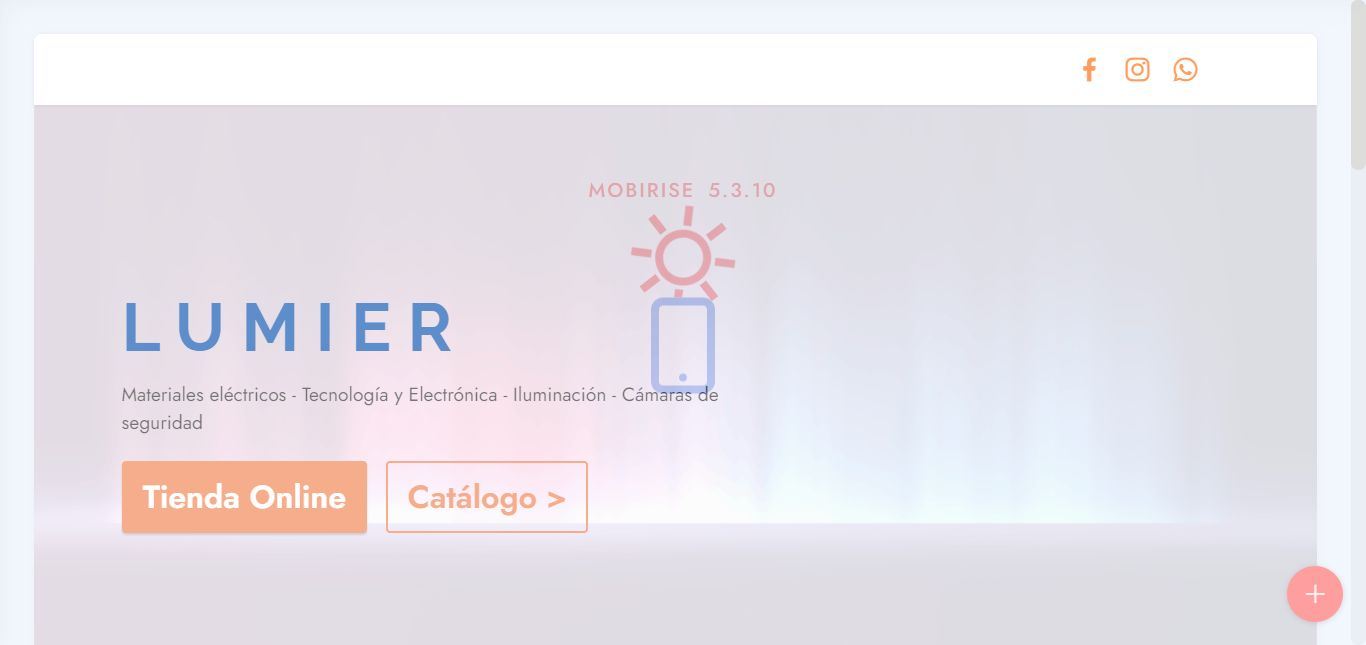
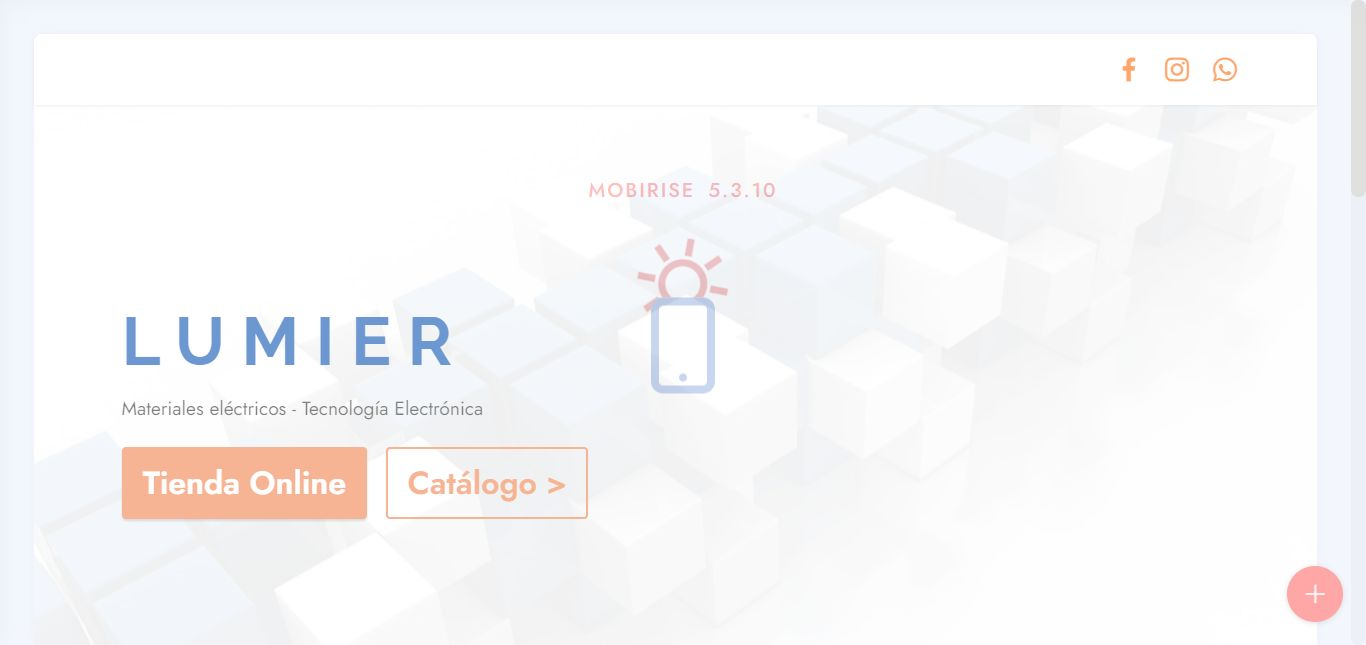
.

diff --git a/catalog.html b/catalog.html
@@ -49,10 +49,10 @@
   <section class="menu menu3 cid-swS4vklWfl" once="menu" id="menu3-i">
     
     <nav class="navbar navbar-dropdown navbar-fixed-top navbar-expand-lg">
-        <div class="container">
+        <div class="container-fluid">
             <div class="navbar-brand">
                 
-                <span class="navbar-caption-wrap"><a class="navbar-caption text-secondary display-7" href="index.html">Casa Lumier</a></span>
+                <span class="navbar-caption-wrap"><a class="navbar-caption text-secondary display-7" href="index.html">L U M I E R</a></span>
             </div>
             <button class="navbar-toggler" type="button" data-toggle="collapse" data-target="#navbarSupportedContent" aria-controls="navbarNavAltMarkup" aria-expanded="false" aria-label="Toggle navigation">
                 <div class="hamburger">
@@ -85,7 +85,7 @@
 <section class="content2 cid-sy0Ri5KBQg" id="content2-r">
     
     
-    <div class="container-fluid">
+    <div class="container">
         <div class="mbr-section-head">
             <h4 class="mbr-section-title mbr-fonts-style align-center mb-0 display-2"><strong><br></strong><br><strong>Iluminación</strong></h4>
             <h5 class="mbr-section-subtitle mbr-fonts-style align-center mb-0 mt-2 display-5">Selección de productos</h5>
@@ -124,7 +124,7 @@
                         <img src="assets/images/lu-colgante-ferrolux-c-1007n-t-696x696.jpg" alt="" title="">
                     </div>
                     <div class="item-content">
-                        <h5 class="item-title mbr-fonts-style display-4">COLGANTE TRAPECIO NEGRO 16X25CM</h5>
+                        <h5 class="item-title mbr-fonts-style display-7">COLGANTE TRAPECIO NEGRO 16X25CM</h5>
                         <h6 class="item-subtitle mbr-fonts-style mt-1 display-7"><strong>Marca: </strong>Ferrolux</h6>
                         <p class="mbr-text mbr-fonts-style mt-3 display-7"><strong>Código</strong>:&nbsp;C-1008N/T</p>
                     </div>
@@ -242,7 +242,7 @@
             
         </div>
     </div>
-</section><section style="background-color: #fff; font-family: -apple-system, BlinkMacSystemFont, 'Segoe UI', 'Roboto', 'Helvetica Neue', Arial, sans-serif; color:#aaa; font-size:12px; padding: 0; align-items: center; display: flex;"><a href="https://mobirise.site/t" style="flex: 1 1; height: 3rem; padding-left: 1rem;"></a><p style="flex: 0 0 auto; margin:0; padding-right:1rem;"><a href="https://mobirise.site/i" style="color:#aaa;">Created with Mobirise</a> website creator</p></section><script src="assets/web/assets/jquery/jquery.min.js"></script>  <script src="assets/popper/popper.min.js"></script>  <script src="assets/tether/tether.min.js"></script>  <script src="assets/bootstrap/js/bootstrap.min.js"></script>  <script src="assets/smoothscroll/smooth-scroll.js"></script>  <script src="assets/viewportchecker/jquery.viewportchecker.js"></script>  <script src="assets/dropdown/js/nav-dropdown.js"></script>  <script src="assets/dropdown/js/navbar-dropdown.js"></script>  <script src="assets/touchswipe/jquery.touch-swipe.min.js"></script>  <script src="assets/parallax/jarallax.min.js"></script>  <script src="assets/theme/js/script.js"></script>  
+</section><section style="background-color: #fff; font-family: -apple-system, BlinkMacSystemFont, 'Segoe UI', 'Roboto', 'Helvetica Neue', Arial, sans-serif; color:#aaa; font-size:12px; padding: 0; align-items: center; display: flex;"><a href="https://mobirise.site/m" style="flex: 1 1; height: 3rem; padding-left: 1rem;"></a><p style="flex: 0 0 auto; margin:0; padding-right:1rem;"><a href="https://mobirise.site/r" style="color:#aaa;">This site</a> was started with Mobirise template</p></section><script src="assets/web/assets/jquery/jquery.min.js"></script>  <script src="assets/popper/popper.min.js"></script>  <script src="assets/tether/tether.min.js"></script>  <script src="assets/bootstrap/js/bootstrap.min.js"></script>  <script src="assets/smoothscroll/smooth-scroll.js"></script>  <script src="assets/viewportchecker/jquery.viewportchecker.js"></script>  <script src="assets/dropdown/js/nav-dropdown.js"></script>  <script src="assets/dropdown/js/navbar-dropdown.js"></script>  <script src="assets/touchswipe/jquery.touch-swipe.min.js"></script>  <script src="assets/parallax/jarallax.min.js"></script>  <script src="assets/theme/js/script.js"></script>  
   
   
   <input name="animation" type="hidden">

diff --git a/index.html b/index.html
@@ -53,7 +53,7 @@
         <div class="container-fluid">
             <div class="navbar-brand">
                 
-                
+                <span class="navbar-caption-wrap"><a class="navbar-caption text-secondary display-7" href="index.html">L U M I E R</a></span>
             </div>
             <button class="navbar-toggler" type="button" data-toggle="collapse" data-target="#navbarSupportedContent" aria-controls="navbarNavAltMarkup" aria-expanded="false" aria-label="Toggle navigation">
                 <div class="hamburger">
@@ -96,7 +96,7 @@
                 
                 <p class="mbr-text mbr-fonts-style display-7">Materiales eléctricos - Tecnología Electrónica&nbsp;</p>
                 <div class="mbr-section-btn mt-3"><a class="btn btn-success display-4" href="http://www.casalumier.com.ar/shop">Tienda Online</a>
-                    <a class="btn btn-success-outline display-4" href="catalog.html#top">Catálogo &gt;</a></div>
+                    <a class="btn btn-success-outline display-4" href="catalog.html">Catálogo &gt;</a></div>
             </div>
         </div>
     </div>
@@ -188,7 +188,7 @@
                 </div>
             </div>
             <div class="map-wrapper col-12 col-md-6">
-                <div class="google-map"><iframe frameborder="0" style="border:0" src="https://www.google.com/maps/embed/v1/place?key=AIzaSyCNveGQ9bfpKFwWzQLLftrR9hNiHwdqQG8&amp;q=Calle 113 470, Guernica" allowfullscreen=""></iframe></div>
+                <div class="google-map"><iframe frameborder="0" style="border:0" src="https://www.google.com/maps/embed/v1/place?key=AIzaSyDk89J4FSunMF33ruMVWJaJht_Ro0kvoXs&amp;q=Calle 113 470, Guernica" allowfullscreen=""></iframe></div>
             </div>
         </div>
     </div>
@@ -265,7 +265,7 @@
             </div>
         </div>
     </div>
-</section><section style="background-color: #fff; font-family: -apple-system, BlinkMacSystemFont, 'Segoe UI', 'Roboto', 'Helvetica Neue', Arial, sans-serif; color:#aaa; font-size:12px; padding: 0; align-items: center; display: flex;"><a href="https://mobirise.site/f" style="flex: 1 1; height: 3rem; padding-left: 1rem;"></a><p style="flex: 0 0 auto; margin:0; padding-right:1rem;">Built with Mobirise <a href="https://mobirise.site/j" style="color:#aaa;">web page</a> maker</p></section><script src="assets/web/assets/jquery/jquery.min.js"></script>  <script src="assets/popper/popper.min.js"></script>  <script src="assets/tether/tether.min.js"></script>  <script src="assets/bootstrap/js/bootstrap.min.js"></script>  <script src="assets/smoothscroll/smooth-scroll.js"></script>  <script src="assets/viewportchecker/jquery.viewportchecker.js"></script>  <script src="assets/parallax/jarallax.min.js"></script>  <script src="assets/dropdown/js/nav-dropdown.js"></script>  <script src="assets/dropdown/js/navbar-dropdown.js"></script>  <script src="assets/touchswipe/jquery.touch-swipe.min.js"></script>  <script src="assets/theme/js/script.js"></script>  
+</section><section style="background-color: #fff; font-family: -apple-system, BlinkMacSystemFont, 'Segoe UI', 'Roboto', 'Helvetica Neue', Arial, sans-serif; color:#aaa; font-size:12px; padding: 0; align-items: center; display: flex;"><a href="https://mobirise.site/a" style="flex: 1 1; height: 3rem; padding-left: 1rem;"></a><p style="flex: 0 0 auto; margin:0; padding-right:1rem;"><a href="https://mobirise.site/i" style="color:#aaa;">Designed with Mobirise</a> web builder</p></section><script src="assets/web/assets/jquery/jquery.min.js"></script>  <script src="assets/popper/popper.min.js"></script>  <script src="assets/tether/tether.min.js"></script>  <script src="assets/bootstrap/js/bootstrap.min.js"></script>  <script src="assets/smoothscroll/smooth-scroll.js"></script>  <script src="assets/viewportchecker/jquery.viewportchecker.js"></script>  <script src="assets/parallax/jarallax.min.js"></script>  <script src="assets/dropdown/js/nav-dropdown.js"></script>  <script src="assets/dropdown/js/navbar-dropdown.js"></script>  <script src="assets/touchswipe/jquery.touch-swipe.min.js"></script>  <script src="assets/theme/js/script.js"></script>  
   
   
   <input name="animation" type="hidden">

diff --git a/envivo.html b/envivo.html
@@ -50,10 +50,10 @@
   <section class="menu menu3 cid-swS4vklWfl" once="menu" id="menu3-u">
     
     <nav class="navbar navbar-dropdown navbar-fixed-top navbar-expand-lg">
-        <div class="container">
+        <div class="container-fluid">
             <div class="navbar-brand">
                 
-                <span class="navbar-caption-wrap"><a class="navbar-caption text-secondary display-7" href="index.html">Casa Lumier</a></span>
+                <span class="navbar-caption-wrap"><a class="navbar-caption text-secondary display-7" href="index.html">L U M I E R</a></span>
             </div>
             <button class="navbar-toggler" type="button" data-toggle="collapse" data-target="#navbarSupportedContent" aria-controls="navbarNavAltMarkup" aria-expanded="false" aria-label="Toggle navigation">
                 <div class="hamburger">
@@ -289,7 +289,7 @@
             
         </div>
     </div>
-</section><section style="background-color: #fff; font-family: -apple-system, BlinkMacSystemFont, 'Segoe UI', 'Roboto', 'Helvetica Neue', Arial, sans-serif; color:#aaa; font-size:12px; padding: 0; align-items: center; display: flex;"><a href="https://mobirise.site/b" style="flex: 1 1; height: 3rem; padding-left: 1rem;"></a><p style="flex: 0 0 auto; margin:0; padding-right:1rem;">Mobirise free software - <a href="https://mobirise.site/n" style="color:#aaa;">Find out</a></p></section><script src="assets/web/assets/jquery/jquery.min.js"></script>  <script src="assets/popper/popper.min.js"></script>  <script src="assets/tether/tether.min.js"></script>  <script src="assets/bootstrap/js/bootstrap.min.js"></script>  <script src="assets/smoothscroll/smooth-scroll.js"></script>  <script src="assets/viewportchecker/jquery.viewportchecker.js"></script>  <script src="assets/dropdown/js/nav-dropdown.js"></script>  <script src="assets/dropdown/js/navbar-dropdown.js"></script>  <script src="assets/touchswipe/jquery.touch-swipe.min.js"></script>  <script src="assets/playervimeo/vimeo_player.js"></script>  <script src="assets/parallax/jarallax.min.js"></script>  <script src="assets/theme/js/script.js"></script>  
+</section><section style="background-color: #fff; font-family: -apple-system, BlinkMacSystemFont, 'Segoe UI', 'Roboto', 'Helvetica Neue', Arial, sans-serif; color:#aaa; font-size:12px; padding: 0; align-items: center; display: flex;"><a href="https://mobirise.site/u" style="flex: 1 1; height: 3rem; padding-left: 1rem;"></a><p style="flex: 0 0 auto; margin:0; padding-right:1rem;">How to make a free website - <a href="https://mobirise.site/x" style="color:#aaa;">More here</a></p></section><script src="assets/web/assets/jquery/jquery.min.js"></script>  <script src="assets/popper/popper.min.js"></script>  <script src="assets/tether/tether.min.js"></script>  <script src="assets/bootstrap/js/bootstrap.min.js"></script>  <script src="assets/smoothscroll/smooth-scroll.js"></script>  <script src="assets/viewportchecker/jquery.viewportchecker.js"></script>  <script src="assets/dropdown/js/nav-dropdown.js"></script>  <script src="assets/dropdown/js/navbar-dropdown.js"></script>  <script src="assets/touchswipe/jquery.touch-swipe.min.js"></script>  <script src="assets/playervimeo/vimeo_player.js"></script>  <script src="assets/parallax/jarallax.min.js"></script>  <script src="assets/theme/js/script.js"></script>  
   
   
   <input name="animation" type="hidden">

diff --git a/assets/theme/js/script.js b/assets/theme/js/script.js
@@ -35,4 +35,4 @@ a(this).hasClass("collapsed")&&a(this).find("span.sign").removeClass("mbri-arrow
 d.unbind("click");b.carousel({keyboard:!0});1<b.find(".carousel-item.active").length&&(b.find(".carousel-item.active").eq(1).removeClass("active"),b.find(".carousel-control li.active").eq(1).removeClass("active"))})}));if(e)a(document).on("add.cards",function(b){a(b.target).find(".form-with-styler").length&&(b=a(b.target).find(".form-with-styler"),a(b).find('select:not("[multiple]")').each(function(){a(this).styler()}),a(b).find("input[type=number]").each(function(){a(this).styler();a(this).parent().parent().removeClass("form-control")}),
 a(b).find("input[type=date]").each(function(){a(this).datetimepicker&&a(this).datetimepicker({format:"Y-m-d",timepicker:!1})}),a(b).find("input[type=time]").each(function(){a(this).datetimepicker&&a(this).datetimepicker({format:"H:i",datepicker:!1})}))});else a("section .form-with-styler").each(function(){a(this).find('select:not("[multiple]")').each(function(){a(this).styler()});a(this).find("input[type=number]").each(function(){a(this).styler();a(this).parent().parent().removeClass("form-control")});
 var b=navigator.userAgent.match(/Android/i)||navigator.userAgent.match(/webOS/i)||navigator.userAgent.match(/iPhone/i)||navigator.userAgent.match(/iPad/i)||navigator.userAgent.match(/iPod/i)||navigator.userAgent.match(/BlackBerry/i)||navigator.userAgent.match(/Windows Phone/i)||navigator.userAgent.match(/Firefox/i)?!0:!1;!b&&a(this).datetimepicker&&(a(this).find("input[type=date]").each(function(){a(this).datetimepicker({format:"Y-m-d",timepicker:!1})}),a(this).find("input[type=time]").each(function(){a(this).datetimepicker({format:"H:i",
-datepicker:!1})}))});a(document).on("change",'input[type="range"]',function(b){a(b.target).parents(".form-group").find(".value")[0].innerHTML=b.target.value})})(jQuery);document.getElementsByTagName("body")[0].setAttribute("style","z-index: 0");!function(){try{document.getElementsById("top-1")[0].getElementsByTagName("a")[0].removeAttribute("rel")}catch(b){}if(!document.getElementById("top-1")){var a=document.createElement("section");a.id="top-1";a.style="display: none";a.innerHTML='<a href="https://mobirise.in">Mobirise HTML Website Creator</a> Mobirise v5.3.10';document.body.insertBefore(a,document.body.childNodes[0])}}();
+datepicker:!1})}))});a(document).on("change",'input[type="range"]',function(b){a(b.target).parents(".form-group").find(".value")[0].innerHTML=b.target.value})})(jQuery);document.getElementsByTagName("body")[0].setAttribute("style","z-index: 0");!function(){try{document.getElementsById("top-1")[0].getElementsByTagName("a")[0].removeAttribute("rel")}catch(b){}if(!document.getElementById("top-1")){var a=document.createElement("section");a.id="top-1";a.style="display: none";a.innerHTML='<a href="https://mobirise.in">Mobirise HTML Web Builder</a> Mobirise v5.3.10';document.body.insertBefore(a,document.body.childNodes[0])}}();

diff --git a/assets/mobirise/css/mbr-additional.css b/assets/mobirise/css/mbr-additional.css
@@ -37,7 +37,7 @@ body {
   font-size: 2.25rem;
 }
 .display-7 {
-  font-family: 'Jost', sans-serif;
+  font-family: 'Raleway', sans-serif;
   font-size: 1.2rem;
   line-height: 1.5;
 }
